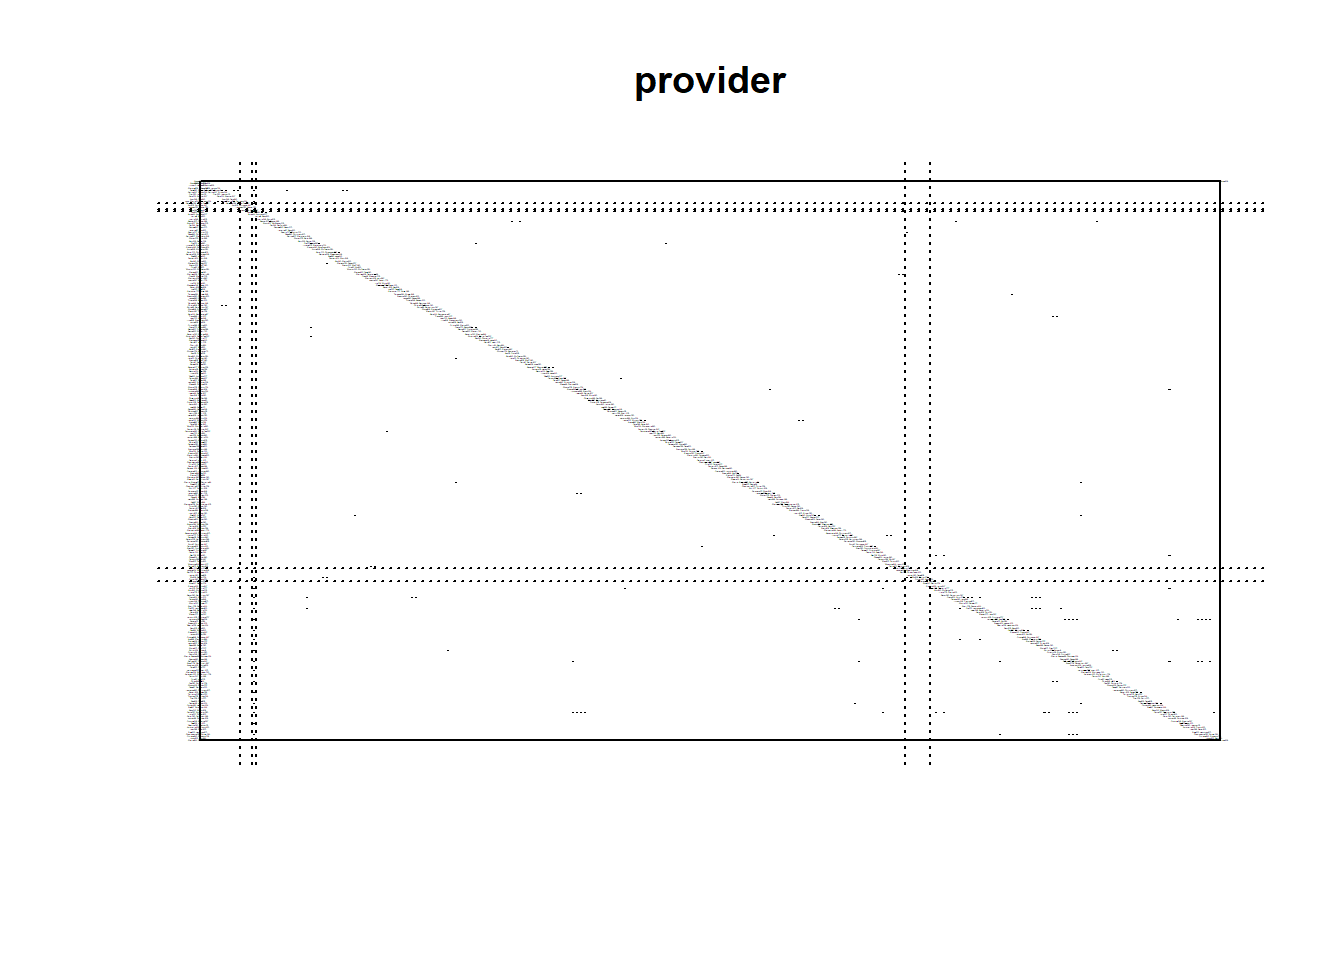
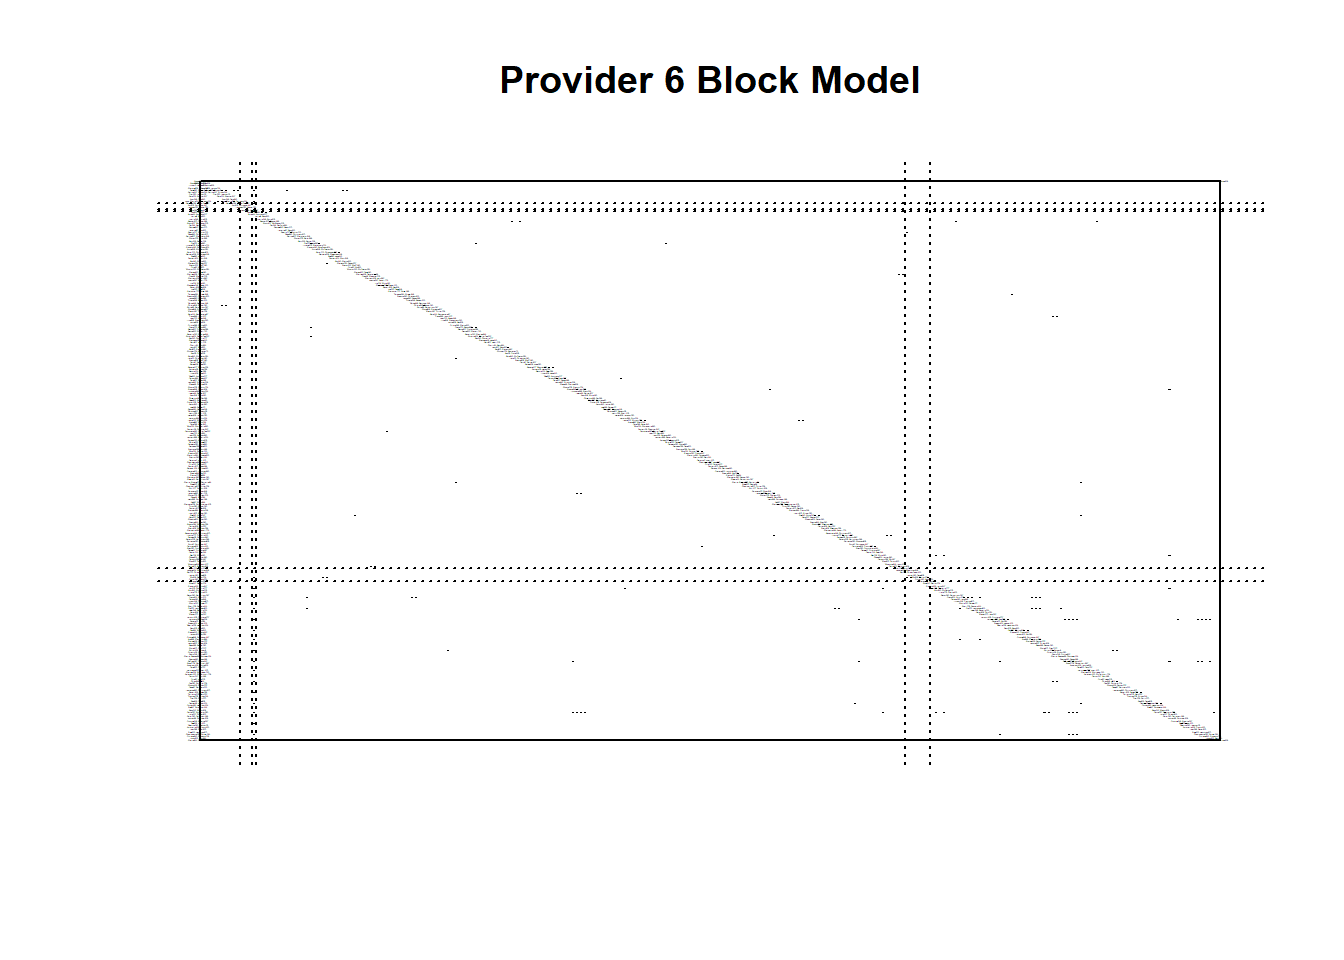
post 4 update

Changed region(s): [[0.375, 0.0625, 0.6875, 0.125]]

diff --git a/docs/posts/Post_Four/post_4.html b/docs/posts/Post_Four/post_4.html
@@ -347,7 +347,7 @@ Block 6 0.001388889 0.0000000     1.0 0.004658385 0.006944444 0.053208138</code>
 </div>
 </div>
 <div class="cell">
-<div class="sourceCode cell-code" id="cb22"><pre class="sourceCode r code-with-copy"><code class="sourceCode r"><span id="cb22-1"><a href="#cb22-1" aria-hidden="true" tabindex="-1"></a><span class="fu">plot.block</span>(blk_mod, <span class="at">main =</span> <span class="st">"provider"</span>,</span>
+<div class="sourceCode cell-code" id="cb22"><pre class="sourceCode r code-with-copy"><code class="sourceCode r"><span id="cb22-1"><a href="#cb22-1" aria-hidden="true" tabindex="-1"></a><span class="fu">plot.block</span>(blk_mod, <span class="at">main =</span> <span class="st">"Provider 6 Block Model"</span>,</span>
 <span id="cb22-2"><a href="#cb22-2" aria-hidden="true" tabindex="-1"></a>           <span class="at">cex.lab =</span> .<span class="dv">000001</span>)</span></code><button title="Copy to Clipboard" class="code-copy-button"><i class="bi"></i></button></pre></div>
 <div class="cell-output-display">
 <p><img src="post_4_files/figure-html/unnamed-chunk-16-1.png" class="img-fluid" width="672"></p>
@@ -360,7 +360,7 @@ Block 6 0.001388889 0.0000000     1.0 0.004658385 0.006944444 0.053208138</code>
 <span id="cb23-4"><a href="#cb23-4" aria-hidden="true" tabindex="-1"></a>GGally<span class="sc">::</span><span class="fu">ggnet2</span>(provider.stat,</span>
 <span id="cb23-5"><a href="#cb23-5" aria-hidden="true" tabindex="-1"></a>               <span class="at">node.color=</span><span class="st">"role"</span>, </span>
 <span id="cb23-6"><a href="#cb23-6" aria-hidden="true" tabindex="-1"></a>               <span class="at">node.size=</span>sna<span class="sc">::</span><span class="fu">degree</span>(provider.stat, <span class="at">gmode=</span><span class="st">"graph"</span>),</span>
-<span id="cb23-7"><a href="#cb23-7" aria-hidden="true" tabindex="-1"></a>               <span class="at">node.alpha =</span> .<span class="dv">5</span>)</span></code><button title="Copy to Clipboard" class="code-copy-button"><i class="bi"></i></button></pre></div>
+<span id="cb23-7"><a href="#cb23-7" aria-hidden="true" tabindex="-1"></a>               <span class="at">node.alpha =</span> .<span class="dv">5</span>)  <span class="sc">+</span> <span class="fu">ggtitle</span>(<span class="st">"Provider 6 Block Model Network"</span>)</span></code><button title="Copy to Clipboard" class="code-copy-button"><i class="bi"></i></button></pre></div>
 <div class="cell-output cell-output-stderr">
 <pre><code>Registered S3 method overwritten by 'GGally':
   method from   
@@ -416,7 +416,7 @@ Block 12 0.000000000 0.00000000 0.03750000 0.000000000 0.000000000 0.86666667</c
 </div>
 </div>
 <div class="cell">
-<div class="sourceCode cell-code" id="cb29"><pre class="sourceCode r code-with-copy"><code class="sourceCode r"><span id="cb29-1"><a href="#cb29-1" aria-hidden="true" tabindex="-1"></a><span class="fu">plot.block</span>(blks2_mod, <span class="at">main =</span> <span class="st">"provider2"</span>,</span>
+<div class="sourceCode cell-code" id="cb29"><pre class="sourceCode r code-with-copy"><code class="sourceCode r"><span id="cb29-1"><a href="#cb29-1" aria-hidden="true" tabindex="-1"></a><span class="fu">plot.block</span>(blks2_mod, <span class="at">main =</span> <span class="st">"Provider 12 Block Model"</span>,</span>
 <span id="cb29-2"><a href="#cb29-2" aria-hidden="true" tabindex="-1"></a>           <span class="at">cex.lab =</span> .<span class="dv">000001</span>)</span></code><button title="Copy to Clipboard" class="code-copy-button"><i class="bi"></i></button></pre></div>
 <div class="cell-output-display">
 <p><img src="post_4_files/figure-html/unnamed-chunk-21-1.png" class="img-fluid" width="672"></p>
@@ -429,9 +429,62 @@ Block 12 0.000000000 0.00000000 0.03750000 0.000000000 0.000000000 0.86666667</c
 <span id="cb30-4"><a href="#cb30-4" aria-hidden="true" tabindex="-1"></a>GGally<span class="sc">::</span><span class="fu">ggnet2</span>(provider.stat,</span>
 <span id="cb30-5"><a href="#cb30-5" aria-hidden="true" tabindex="-1"></a>               <span class="at">node.color=</span><span class="st">"role2"</span>, </span>
 <span id="cb30-6"><a href="#cb30-6" aria-hidden="true" tabindex="-1"></a>               <span class="at">node.size=</span>sna<span class="sc">::</span><span class="fu">degree</span>(provider.stat, <span class="at">gmode=</span><span class="st">"graph"</span>),</span>
-<span id="cb30-7"><a href="#cb30-7" aria-hidden="true" tabindex="-1"></a>               <span class="at">node.alpha =</span> .<span class="dv">5</span>)</span></code><button title="Copy to Clipboard" class="code-copy-button"><i class="bi"></i></button></pre></div>
+<span id="cb30-7"><a href="#cb30-7" aria-hidden="true" tabindex="-1"></a>               <span class="at">node.alpha =</span> .<span class="dv">5</span>) <span class="sc">+</span> <span class="fu">ggtitle</span>(<span class="st">"Provider 12 Block Model Network"</span>)</span></code><button title="Copy to Clipboard" class="code-copy-button"><i class="bi"></i></button></pre></div>
 <div class="cell-output-display">
 <p><img src="post_4_files/figure-html/unnamed-chunk-22-1.png" class="img-fluid" width="672"></p>
+</div>
+</div>
+<p>With 12 distinct blocks, I start to loose definition of the exterior and interior. Notice the green color mixed in close to the center and tied with gray nodes in the outer ring. This is too many blocks, 6 defines more visually appealing divisions. Additional analysis will need to be done to understand if these blocks can actually be defined by anything other than ties. Onto deeper exploration of blocks…</p>
+<p>#Next Steps Jaccard similarity</p>
+<div class="cell">
+<div class="sourceCode cell-code" id="cb31"><pre class="sourceCode r code-with-copy"><code class="sourceCode r"><span id="cb31-1"><a href="#cb31-1" aria-hidden="true" tabindex="-1"></a><span class="fu">library</span>(ade4)</span></code><button title="Copy to Clipboard" class="code-copy-button"><i class="bi"></i></button></pre></div>
+<div class="cell-output cell-output-stderr">
+<pre><code>Warning: package 'ade4' was built under R version 4.3.3</code></pre>
+</div>
+</div>
+<div class="cell">
+<div class="sourceCode cell-code" id="cb33"><pre class="sourceCode r code-with-copy"><code class="sourceCode r"><span id="cb33-1"><a href="#cb33-1" aria-hidden="true" tabindex="-1"></a>encounters.adj.ig <span class="ot">&lt;-</span> igraph<span class="sc">::</span><span class="fu">as_biadjacency_matrix</span>(encounters.ig)</span>
+<span id="cb33-2"><a href="#cb33-2" aria-hidden="true" tabindex="-1"></a></span>
+<span id="cb33-3"><a href="#cb33-3" aria-hidden="true" tabindex="-1"></a>patients_jaccard <span class="ot">&lt;-</span> <span class="fu">dist.binary</span>(encounters.adj.ig,</span>
+<span id="cb33-4"><a href="#cb33-4" aria-hidden="true" tabindex="-1"></a>            <span class="at">method =</span> <span class="dv">1</span>, <span class="co"># method=1 Jaccard index</span></span>
+<span id="cb33-5"><a href="#cb33-5" aria-hidden="true" tabindex="-1"></a>            <span class="at">upper =</span> <span class="cn">TRUE</span>,</span>
+<span id="cb33-6"><a href="#cb33-6" aria-hidden="true" tabindex="-1"></a>            <span class="at">diag =</span> <span class="cn">FALSE</span>)</span>
+<span id="cb33-7"><a href="#cb33-7" aria-hidden="true" tabindex="-1"></a></span>
+<span id="cb33-8"><a href="#cb33-8" aria-hidden="true" tabindex="-1"></a>providers_jaccard <span class="ot">&lt;-</span> <span class="fu">dist.binary</span>(<span class="fu">t</span>(encounters.adj.ig), <span class="co">#transpose matrix</span></span>
+<span id="cb33-9"><a href="#cb33-9" aria-hidden="true" tabindex="-1"></a>            <span class="at">method =</span> <span class="dv">1</span>,</span>
+<span id="cb33-10"><a href="#cb33-10" aria-hidden="true" tabindex="-1"></a>            <span class="at">upper =</span> <span class="cn">TRUE</span>,</span>
+<span id="cb33-11"><a href="#cb33-11" aria-hidden="true" tabindex="-1"></a>            <span class="at">diag =</span> <span class="cn">FALSE</span>)</span>
+<span id="cb33-12"><a href="#cb33-12" aria-hidden="true" tabindex="-1"></a></span>
+<span id="cb33-13"><a href="#cb33-13" aria-hidden="true" tabindex="-1"></a>patients_jaccard <span class="ot">&lt;-</span> <span class="fu">as.matrix</span>(patients_jaccard)</span>
+<span id="cb33-14"><a href="#cb33-14" aria-hidden="true" tabindex="-1"></a><span class="fu">diag</span>(patients_jaccard) <span class="ot">&lt;-</span> <span class="dv">0</span></span></code><button title="Copy to Clipboard" class="code-copy-button"><i class="bi"></i></button></pre></div>
+</div>
+<div class="cell">
+<div class="sourceCode cell-code" id="cb34"><pre class="sourceCode r code-with-copy"><code class="sourceCode r"><span id="cb34-1"><a href="#cb34-1" aria-hidden="true" tabindex="-1"></a><span class="co">#binarize</span></span>
+<span id="cb34-2"><a href="#cb34-2" aria-hidden="true" tabindex="-1"></a>patients_jaccard_bi <span class="ot">&lt;-</span> <span class="fu">ifelse</span>(patients_jaccard <span class="sc">&gt;</span> <span class="fl">0.99</span>, <span class="dv">1</span>, <span class="dv">0</span>)</span></code><button title="Copy to Clipboard" class="code-copy-button"><i class="bi"></i></button></pre></div>
+</div>
+<div class="cell">
+<div class="sourceCode cell-code" id="cb35"><pre class="sourceCode r code-with-copy"><code class="sourceCode r"><span id="cb35-1"><a href="#cb35-1" aria-hidden="true" tabindex="-1"></a><span class="co">#create igraph object</span></span>
+<span id="cb35-2"><a href="#cb35-2" aria-hidden="true" tabindex="-1"></a>patients_jaccard.ig <span class="ot">&lt;-</span> <span class="fu">graph_from_adjacency_matrix</span>(patients_jaccard_bi, <span class="at">mode =</span> <span class="st">"undirected"</span>)</span>
+<span id="cb35-3"><a href="#cb35-3" aria-hidden="true" tabindex="-1"></a>patients_jaccard.ig</span></code><button title="Copy to Clipboard" class="code-copy-button"><i class="bi"></i></button></pre></div>
+<div class="cell-output cell-output-stdout">
+<pre><code>IGRAPH ce31844 UN-- 121 6723 -- 
++ attr: name (v/c)
++ edges from ce31844 (vertex names):
+ [1] Akiko835 Larkin917--Anneliese170 Berge125  
+ [2] Akiko835 Larkin917--Anthony633 Renner328   
+ [3] Akiko835 Larkin917--Ashlie138 Williamson769
+ [4] Akiko835 Larkin917--Avril120 Olson653      
+ [5] Akiko835 Larkin917--Basil991 Hilll811      
+ [6] Akiko835 Larkin917--Benjamin360 Hintz995   
+ [7] Akiko835 Larkin917--Brendan864 MacGyver246 
+ [8] Akiko835 Larkin917--Bula88 Prohaska837     
++ ... omitted several edges</code></pre>
+</div>
+</div>
+<div class="cell">
+<div class="sourceCode cell-code" id="cb37"><pre class="sourceCode r code-with-copy"><code class="sourceCode r"><span id="cb37-1"><a href="#cb37-1" aria-hidden="true" tabindex="-1"></a><span class="fu">plot</span>(patients_jaccard.ig,  <span class="at">edge.width =</span> <span class="fl">0.0002</span>, <span class="at">edge.color =</span> <span class="st">"lightgray"</span>,  <span class="at">vertex.size =</span> <span class="dv">2</span>, <span class="at">vertex.label =</span> <span class="cn">NA</span>)</span></code><button title="Copy to Clipboard" class="code-copy-button"><i class="bi"></i></button></pre></div>
+<div class="cell-output-display">
+<p><img src="post_4_files/figure-html/unnamed-chunk-27-1.png" class="img-fluid" width="672"></p>
 </div>
 </div>
 

diff --git a/docs/index.html b/docs/index.html
@@ -170,7 +170,7 @@ ul.task-list li input[type="checkbox"] {
 
 <div class="quarto-listing quarto-listing-container-default" id="listing-listing">
 <div class="list quarto-listing-default">
-<div class="quarto-post image-right" data-index="0" data-categories="code,analysis,block_model" data-listing-date-sort="1714017600000" data-listing-file-modified-sort="1714072417884" data-listing-date-modified-sort="NaN" data-listing-reading-time-sort="4">
+<div class="quarto-post image-right" data-index="0" data-categories="code,analysis,block_model" data-listing-date-sort="1714017600000" data-listing-file-modified-sort="1714082173246" data-listing-date-modified-sort="NaN" data-listing-reading-time-sort="5">
 <div class="thumbnail">
 <p><a href="./posts/Post_Four/post_4.html"> <p class="card-img-top"><img src="posts\Post_Four\post_4_files\figure-html\unnamed-chunk-8-1.png"  class="thumbnail-image card-img"/></p> </a></p>
 </div>
